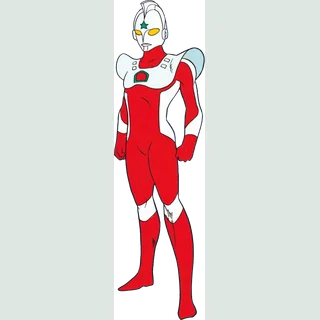
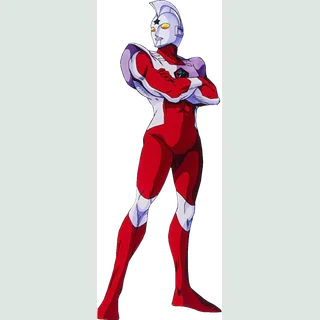
Revert "fix: present ultraman portraits as full body"
This reverts commit 8623f53858e7a349ddd4558ebf4ece61b5c0387a.

Changed region(s): [[0.2812, 0.0, 0.7188, 1.0]]

diff --git a/src/components/screens/UltraScreen.css b/src/components/screens/UltraScreen.css
@@ -32,7 +32,7 @@
 .ultra-hero { position:relative; min-width:0; background:#1b2821; padding:0 0 12px; border:1px solid #344039; border-radius:5px; overflow:hidden; color:#ecf1ed; text-align:left; transition:border-color .15s,background .15s; }
 .ultra-hero:hover { border-color:#8baca0; }
 .ultra-hero.is-selected { border-color:#e18089; background:#352a2c; }
-.ultra-hero img { display:block; width:100%; height:auto; aspect-ratio:1; object-fit:contain; object-position:center bottom; background:#d7dedb; }
+.ultra-hero img { display:block; width:100%; height:auto; aspect-ratio:1; object-fit:cover; background:#d7dedb; }
 .ultra-hero strong { display:block; padding:11px 10px 0; font-size:12px; line-height:1.5; min-height:29px; overflow-wrap:anywhere; }
 .ultra-hero small { display:block; padding:4px 10px 0; font-size:10px; color:#a7b2ab; }
 .ultra-hero-year { position:absolute; top:7px; left:7px; color:#fff; background:#13261fcc; padding:2px 4px; font-size:9px; }
@@ -40,8 +40,8 @@
 .ultra-hero-lock:empty { display:none; }
 .ultra-empty { font-size:13px; color:#bac8c0; grid-column:1/-1; padding:30px 0; }
 .ultra-detail { overflow:auto; border-left:1px solid var(--ultra-line); background:#18231f; }
-.ultra-detail-portrait { position:relative; background:#d7dedb; height:260px; overflow:hidden; }
-.ultra-detail-portrait img { width:100%; height:100%; object-fit:contain; object-position:center bottom; }
+.ultra-detail-portrait { position:relative; background:#d7dedb; height:210px; overflow:hidden; }
+.ultra-detail-portrait img { width:100%; height:100%; object-fit:cover; object-position:center 30%; }
 .ultra-detail-portrait>span { position:absolute; bottom:12px; right:16px; color:#f7faf8; background:#193427b3; padding:4px 8px; font-size:14px; }
 .ultra-detail-copy { padding:20px; }
 .ultra-detail h2 { font-size:25px; margin:8px 0 20px; line-height:1.3; overflow-wrap:anywhere; }
@@ -80,7 +80,7 @@
 .ultra-result { border-left:2px solid #cf6f7f; padding:10px 15px; background:#38282c; }
 .ultra-result.is-win { border-color:#85c89c; background:#203a2b; }
 .ultra-trial-progress { color:#aabdb0; font-size:12px; padding:0 10px 12px; }
-.ultra-chapter-list>button img { flex:0 0 42px; width:42px; height:42px; object-fit:contain; object-position:center bottom; border-radius:3px; background:#d7dedb; }
+.ultra-chapter-list>button img { flex:0 0 42px; width:42px; height:42px; object-fit:cover; border-radius:3px; }
 .ultra-chapter-list>button { padding:14px 8px; gap:12px; }
 .ultra-chapter-list>button strong { overflow-wrap:anywhere; }
 .ultra-trial-opponents { display:flex; gap:28px; justify-content:center; }
@@ -92,7 +92,7 @@
 .ultra-collection-filter button { background:none; color:#a9b9ae; padding:8px 2px; font-size:12px; border:0; border-bottom:2px solid transparent; border-radius:0; }
 .ultra-collection-filter button[aria-pressed=true] { color:#e2eee7; border-color:#8cb9a3; }
 .ultra-device-view .ultra-hero-grid { grid-template-columns:repeat(auto-fill,minmax(156px,1fr)); gap:16px; }
-.ultra-device-view .ultra-hero img,.ultra-device-view .ultra-detail-portrait,.ultra-device-view .ultra-detail-portrait img { background:#101815; object-fit:contain; object-position:center bottom; }
+.ultra-device-view .ultra-hero img,.ultra-device-view .ultra-detail-portrait,.ultra-device-view .ultra-detail-portrait img { background:#101815; object-fit:contain; }
 .ultra-device-view .ultra-hero strong { min-height:47px; font-size:14px; padding:12px 12px 0; }
 .ultra-device-view .ultra-hero small { min-height:35px; padding-inline:12px; font-size:11px; line-height:1.6; }
 .ultra-device-label { display:block; margin:10px 12px 0; color:#a6c8bc; font-size:10px; }
